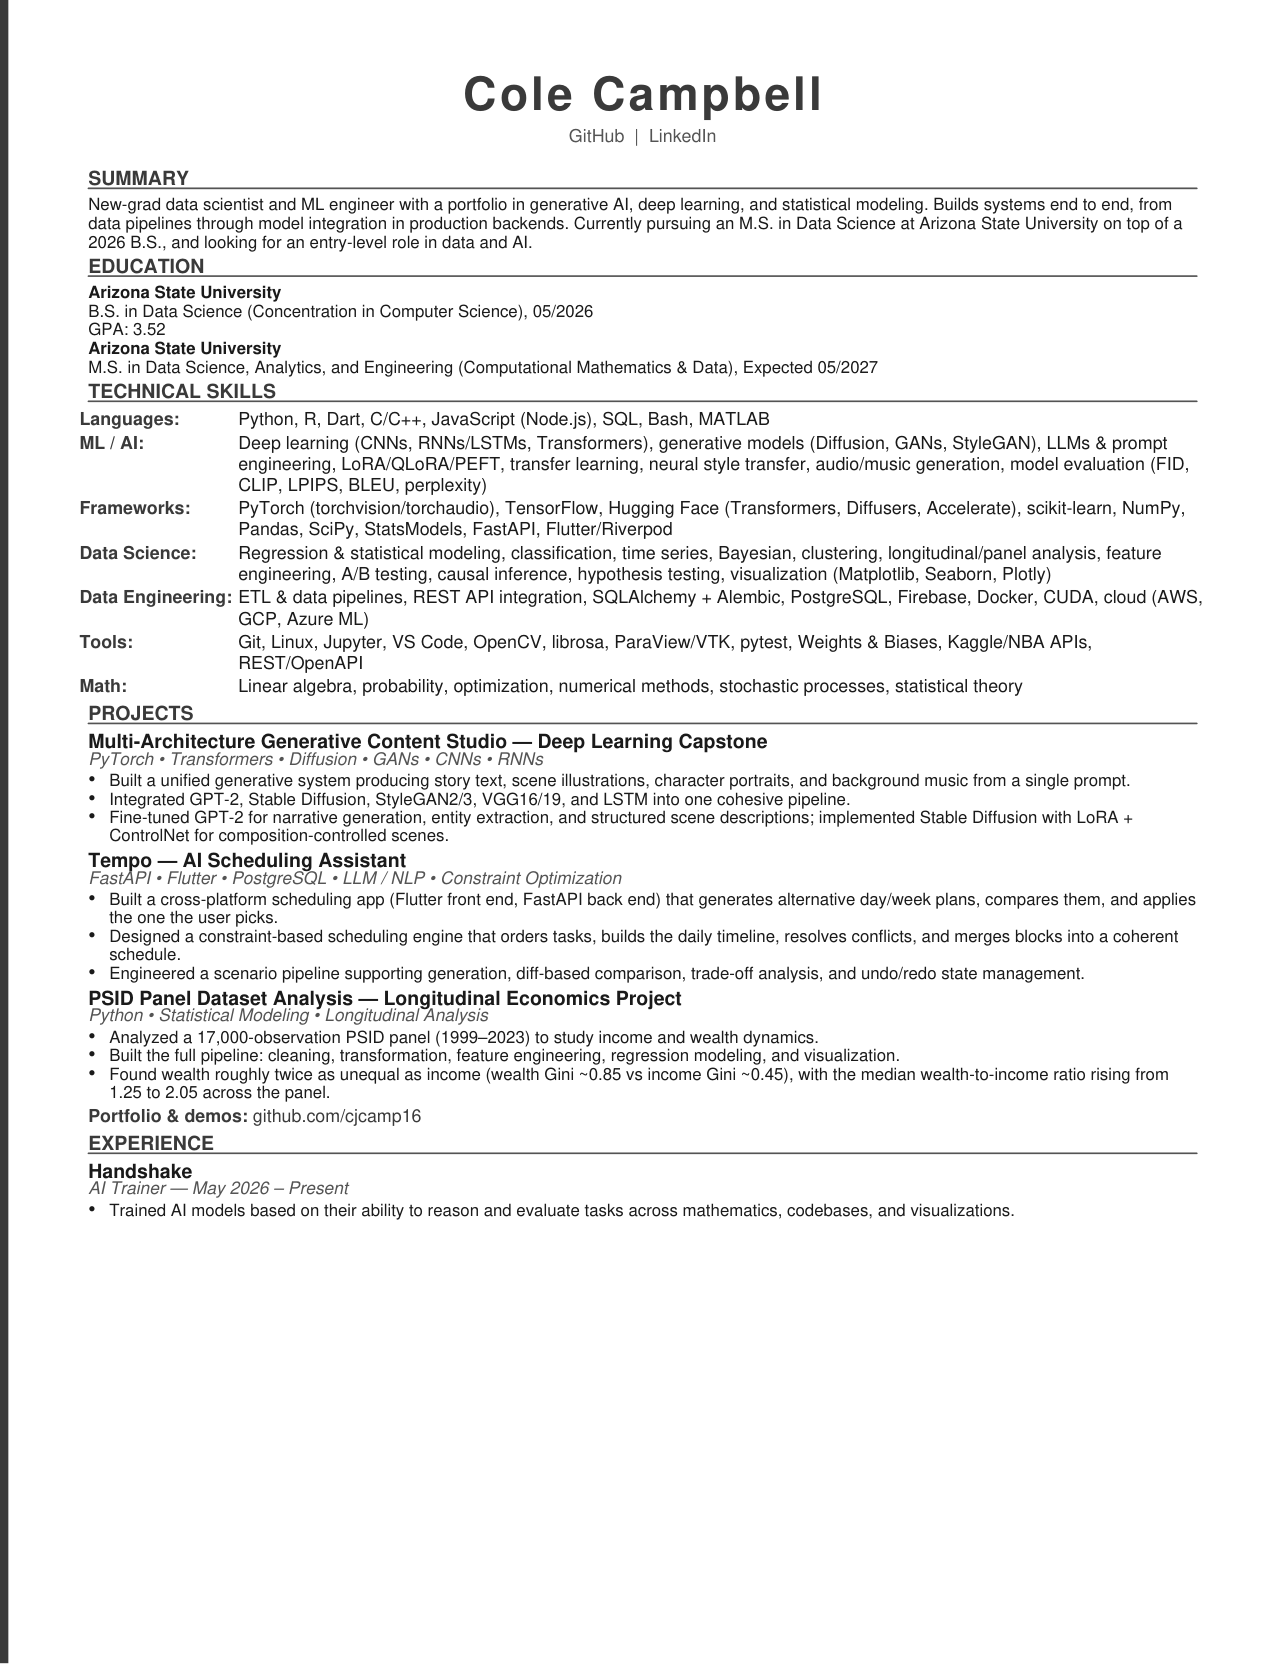
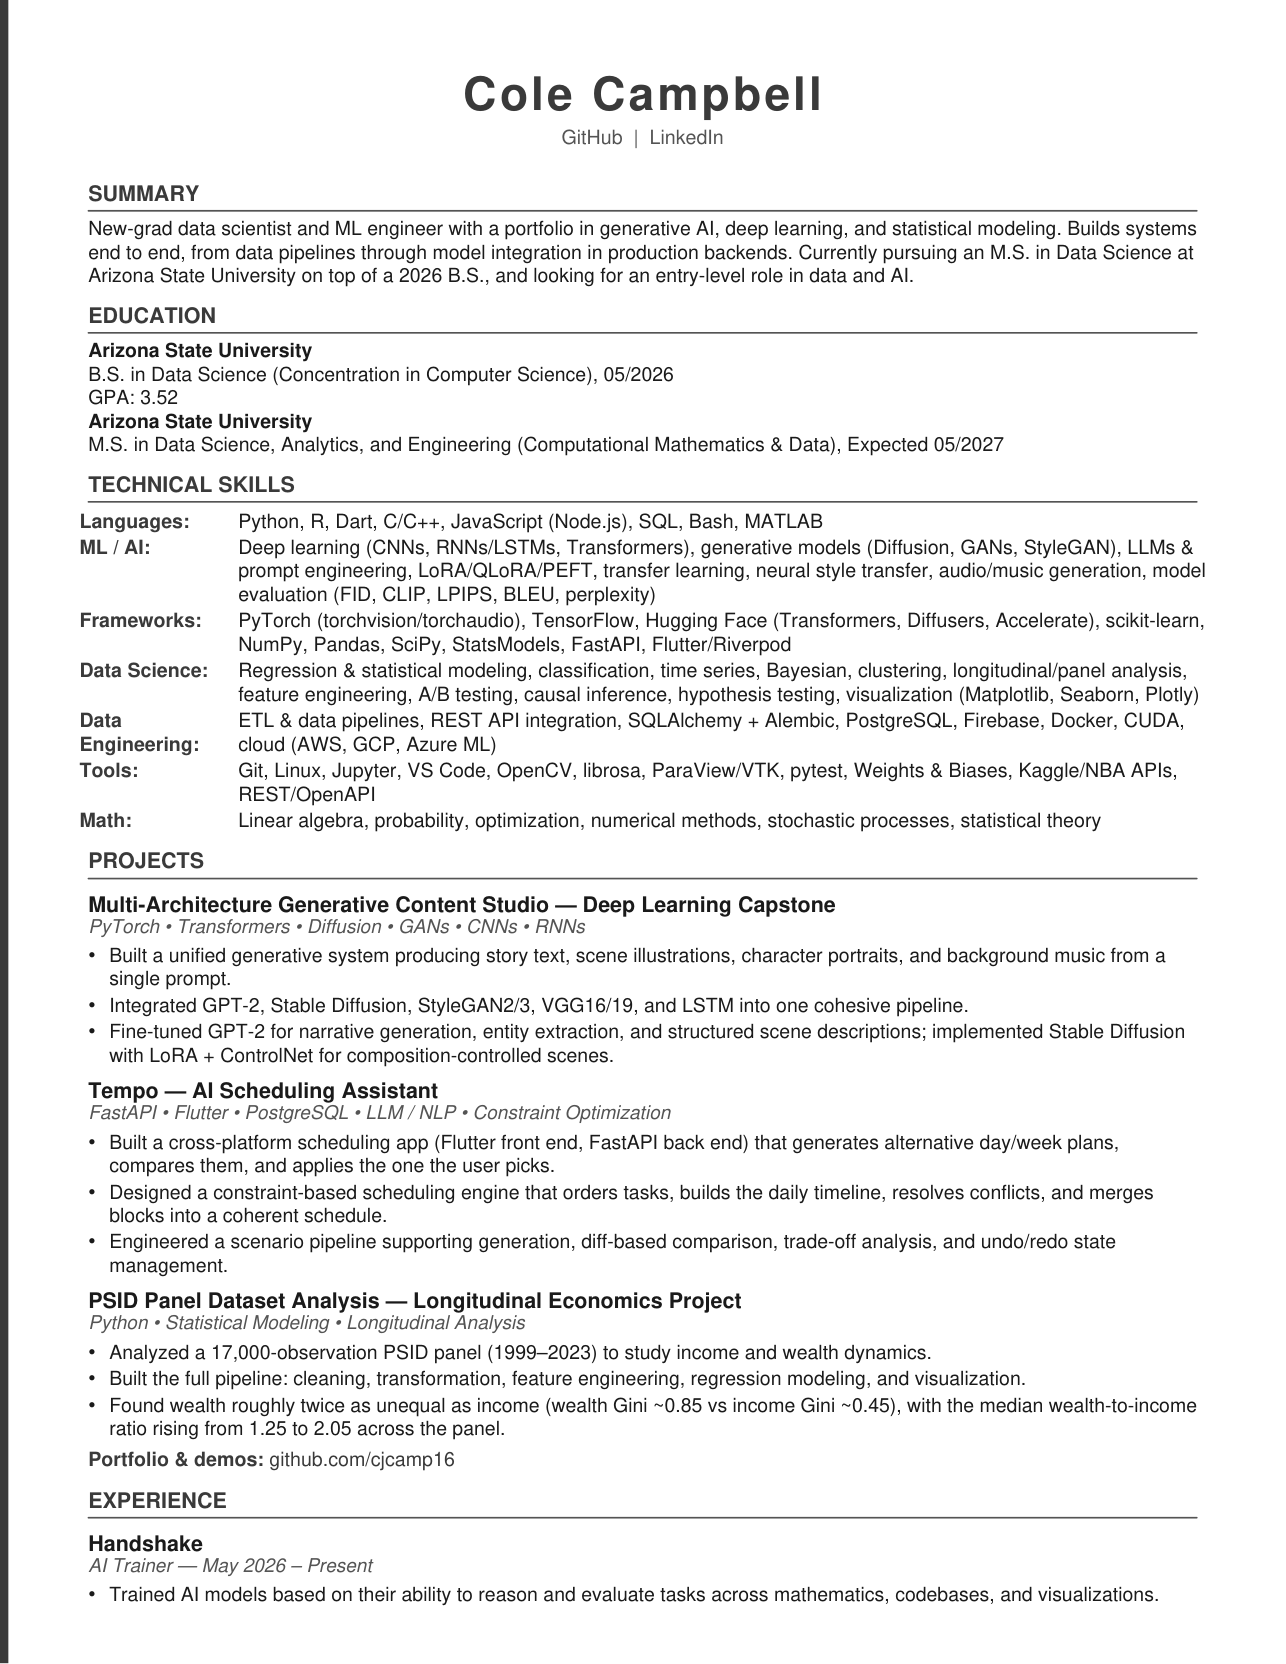
refresh(styles): single-spacing ladder resumes + punch-line hero bio

Changed region(s): [[0.0622, 0.0625, 0.9331, 0.9688], [0.3733, 0.9375, 0.6843, 0.9688], [0.7154, 0.9375, 0.902, 0.9688]]

diff --git a/styles/assets/site/black-gold/index.html b/styles/assets/site/black-gold/index.html
@@ -14,7 +14,7 @@
     <div class="hero-copy">
       <p class="eyebrow">Data Scientist / ML Engineer</p>
       <h1>Cole Campbell</h1>
-      <p class="lede">For my capstone I built one system that turns a single prompt into a story, its illustrations, matching character portraits, and background music, stitching GPT-2, Stable Diffusion, StyleGAN2, and an LSTM into one pipeline. I work across generative AI, deep learning, and statistical modeling, and I'm finishing an M.S. in Data Science at Arizona State.</p>
+      <p class="lede">Learned the material in the classroom, applied that learning through projects, and now looking to put that applied learning into a professional setting.</p>
       <div class="links"><a href="https://github.com/cjcamp16" target="_blank" rel="noopener">GitHub</a><a href="https://www.linkedin.com/in/cole-campbell23" target="_blank" rel="noopener">LinkedIn</a></div>
     </div>
     <div class="hero-photo"><img src="headshot.png" alt="Headshot of Cole Campbell"></div>

diff --git a/styles/assets/site/charcoal-teal/index.html b/styles/assets/site/charcoal-teal/index.html
@@ -14,7 +14,7 @@
     <div class="hero-copy">
       <p class="eyebrow">Data Scientist / ML Engineer</p>
       <h1>Cole Campbell</h1>
-      <p class="lede">For my capstone I built one system that turns a single prompt into a story, its illustrations, matching character portraits, and background music, stitching GPT-2, Stable Diffusion, StyleGAN2, and an LSTM into one pipeline. I work across generative AI, deep learning, and statistical modeling, and I'm finishing an M.S. in Data Science at Arizona State.</p>
+      <p class="lede">Learned the material in the classroom, applied that learning through projects, and now looking to put that applied learning into a professional setting.</p>
       <div class="links"><a href="https://github.com/cjcamp16" target="_blank" rel="noopener">GitHub</a><a href="https://www.linkedin.com/in/cole-campbell23" target="_blank" rel="noopener">LinkedIn</a></div>
     </div>
     <div class="hero-photo"><img src="headshot.png" alt="Headshot of Cole Campbell"></div>

diff --git a/styles/assets/site/forest-sand/index.html b/styles/assets/site/forest-sand/index.html
@@ -14,7 +14,7 @@
     <div class="hero-copy">
       <p class="eyebrow">Data Scientist / ML Engineer</p>
       <h1>Cole Campbell</h1>
-      <p class="lede">For my capstone I built one system that turns a single prompt into a story, its illustrations, matching character portraits, and background music, stitching GPT-2, Stable Diffusion, StyleGAN2, and an LSTM into one pipeline. I work across generative AI, deep learning, and statistical modeling, and I'm finishing an M.S. in Data Science at Arizona State.</p>
+      <p class="lede">Learned the material in the classroom, applied that learning through projects, and now looking to put that applied learning into a professional setting.</p>
       <div class="links"><a href="https://github.com/cjcamp16" target="_blank" rel="noopener">GitHub</a><a href="https://www.linkedin.com/in/cole-campbell23" target="_blank" rel="noopener">LinkedIn</a></div>
     </div>
     <div class="hero-photo"><img src="headshot.png" alt="Headshot of Cole Campbell"></div>

diff --git a/styles/assets/site/monochrome/index.html b/styles/assets/site/monochrome/index.html
@@ -14,7 +14,7 @@
     <div class="hero-copy">
       <p class="eyebrow">Data Scientist / ML Engineer</p>
       <h1>Cole Campbell</h1>
-      <p class="lede">For my capstone I built one system that turns a single prompt into a story, its illustrations, matching character portraits, and background music, stitching GPT-2, Stable Diffusion, StyleGAN2, and an LSTM into one pipeline. I work across generative AI, deep learning, and statistical modeling, and I'm finishing an M.S. in Data Science at Arizona State.</p>
+      <p class="lede">Learned the material in the classroom, applied that learning through projects, and now looking to put that applied learning into a professional setting.</p>
       <div class="links"><a href="https://github.com/cjcamp16" target="_blank" rel="noopener">GitHub</a><a href="https://www.linkedin.com/in/cole-campbell23" target="_blank" rel="noopener">LinkedIn</a></div>
     </div>
     <div class="hero-photo"><img src="headshot.png" alt="Headshot of Cole Campbell"></div>

diff --git a/styles/assets/site/navy-maroon/index.html b/styles/assets/site/navy-maroon/index.html
@@ -14,7 +14,7 @@
     <div class="hero-copy">
       <p class="eyebrow">Data Scientist / ML Engineer</p>
       <h1>Cole Campbell</h1>
-      <p class="lede">For my capstone I built one system that turns a single prompt into a story, its illustrations, matching character portraits, and background music, stitching GPT-2, Stable Diffusion, StyleGAN2, and an LSTM into one pipeline. I work across generative AI, deep learning, and statistical modeling, and I'm finishing an M.S. in Data Science at Arizona State.</p>
+      <p class="lede">Learned the material in the classroom, applied that learning through projects, and now looking to put that applied learning into a professional setting.</p>
       <div class="links"><a href="https://github.com/cjcamp16" target="_blank" rel="noopener">GitHub</a><a href="https://www.linkedin.com/in/cole-campbell23" target="_blank" rel="noopener">LinkedIn</a></div>
     </div>
     <div class="hero-photo"><img src="headshot.png" alt="Headshot of Cole Campbell"></div>

diff --git a/styles/assets/site/slate-blue/index.html b/styles/assets/site/slate-blue/index.html
@@ -14,7 +14,7 @@
     <div class="hero-copy">
       <p class="eyebrow">Data Scientist / ML Engineer</p>
       <h1>Cole Campbell</h1>
-      <p class="lede">For my capstone I built one system that turns a single prompt into a story, its illustrations, matching character portraits, and background music, stitching GPT-2, Stable Diffusion, StyleGAN2, and an LSTM into one pipeline. I work across generative AI, deep learning, and statistical modeling, and I'm finishing an M.S. in Data Science at Arizona State.</p>
+      <p class="lede">Learned the material in the classroom, applied that learning through projects, and now looking to put that applied learning into a professional setting.</p>
       <div class="links"><a href="https://github.com/cjcamp16" target="_blank" rel="noopener">GitHub</a><a href="https://www.linkedin.com/in/cole-campbell23" target="_blank" rel="noopener">LinkedIn</a></div>
     </div>
     <div class="hero-photo"><img src="headshot.png" alt="Headshot of Cole Campbell"></div>

diff --git a/styles/index.html b/styles/index.html
@@ -204,7 +204,7 @@
 <script>
 document.getElementById('year').textContent = new Date().getFullYear();
 
-const ASSET_V = "1783976629";  // cache-buster — bumped automatically when gallery assets regenerate
+const ASSET_V = "1783977243";  // cache-buster — bumped automatically when gallery assets regenerate
 const BGS = [
   ["navy","Navy","#0D1B2A"],["soft-blue","Soft Blue","#9DB4C8"],["lavender","Lavender","#D3CCE6"],
   ["soft-pink","Soft Pink","#ECD4D9"],["white","White","#FFFFFF"],["light-gray","Light Gray","#E9ECEF"]
